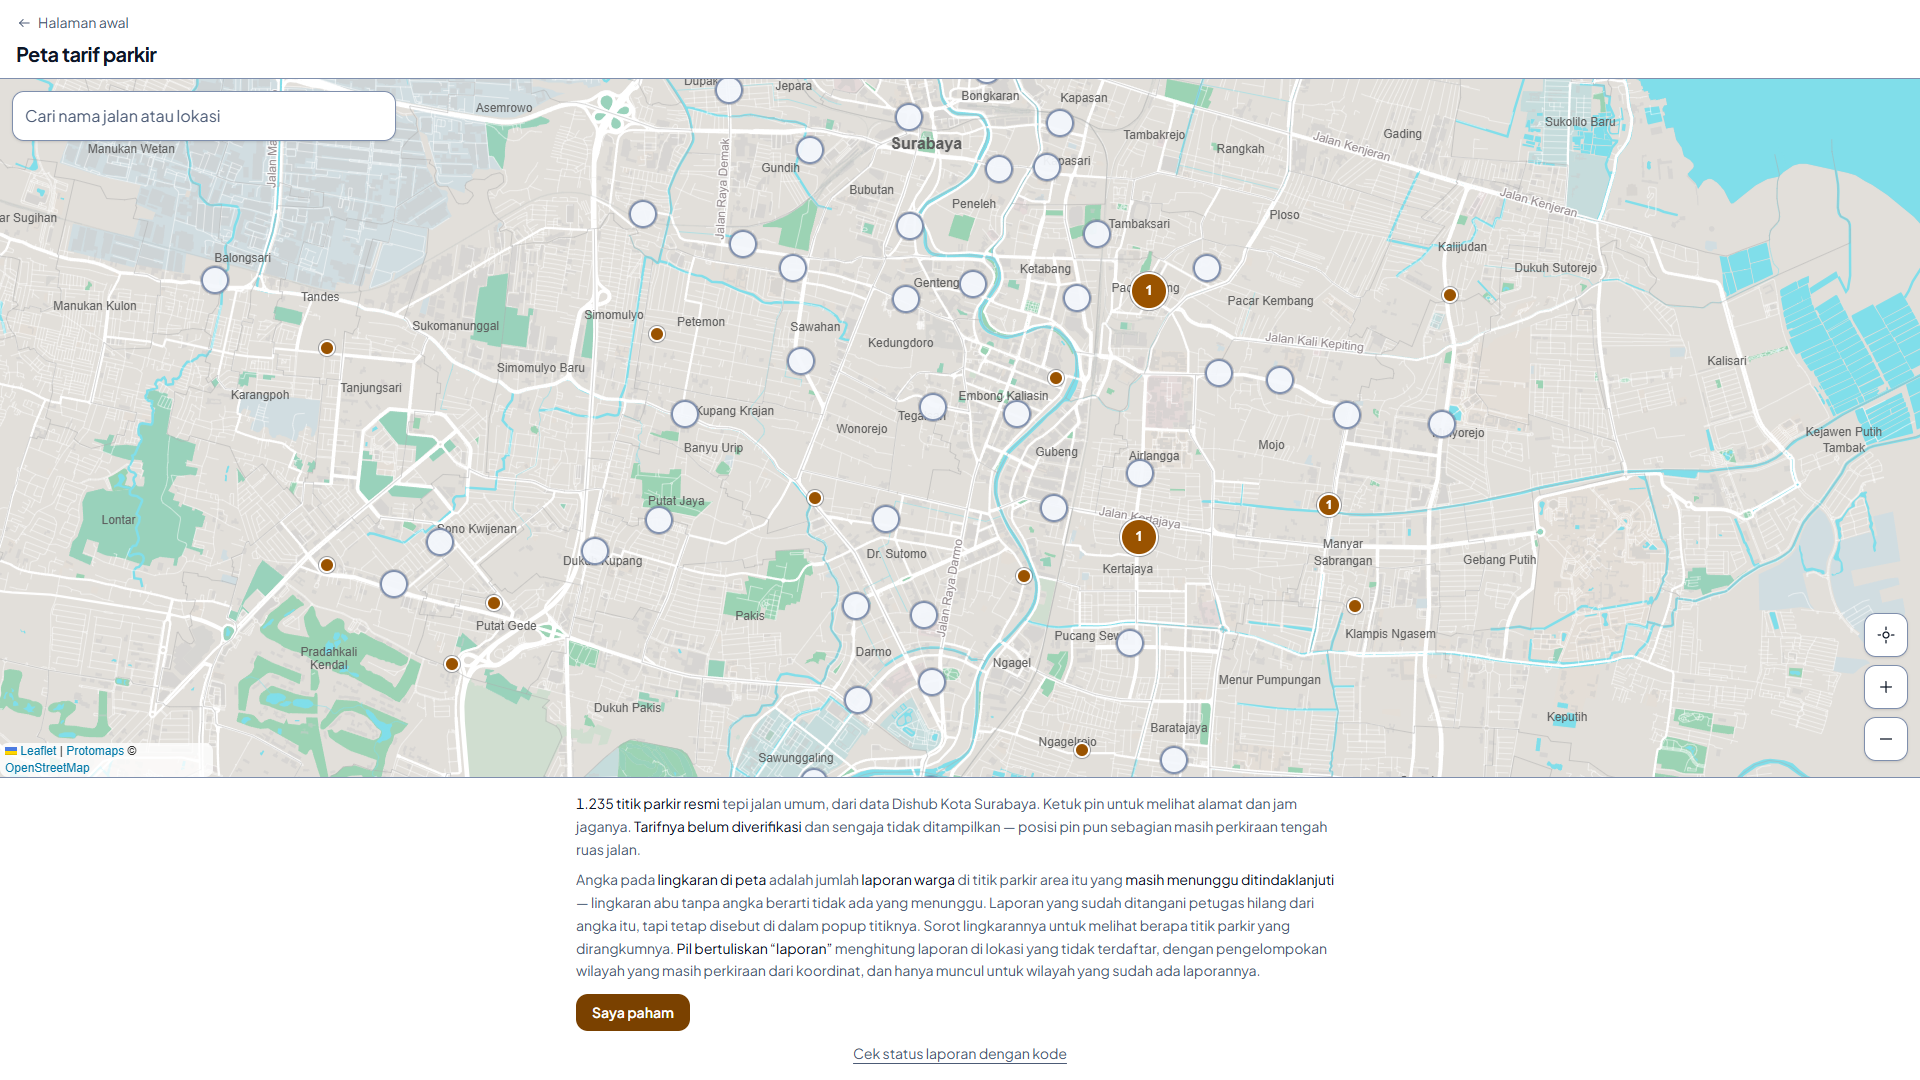
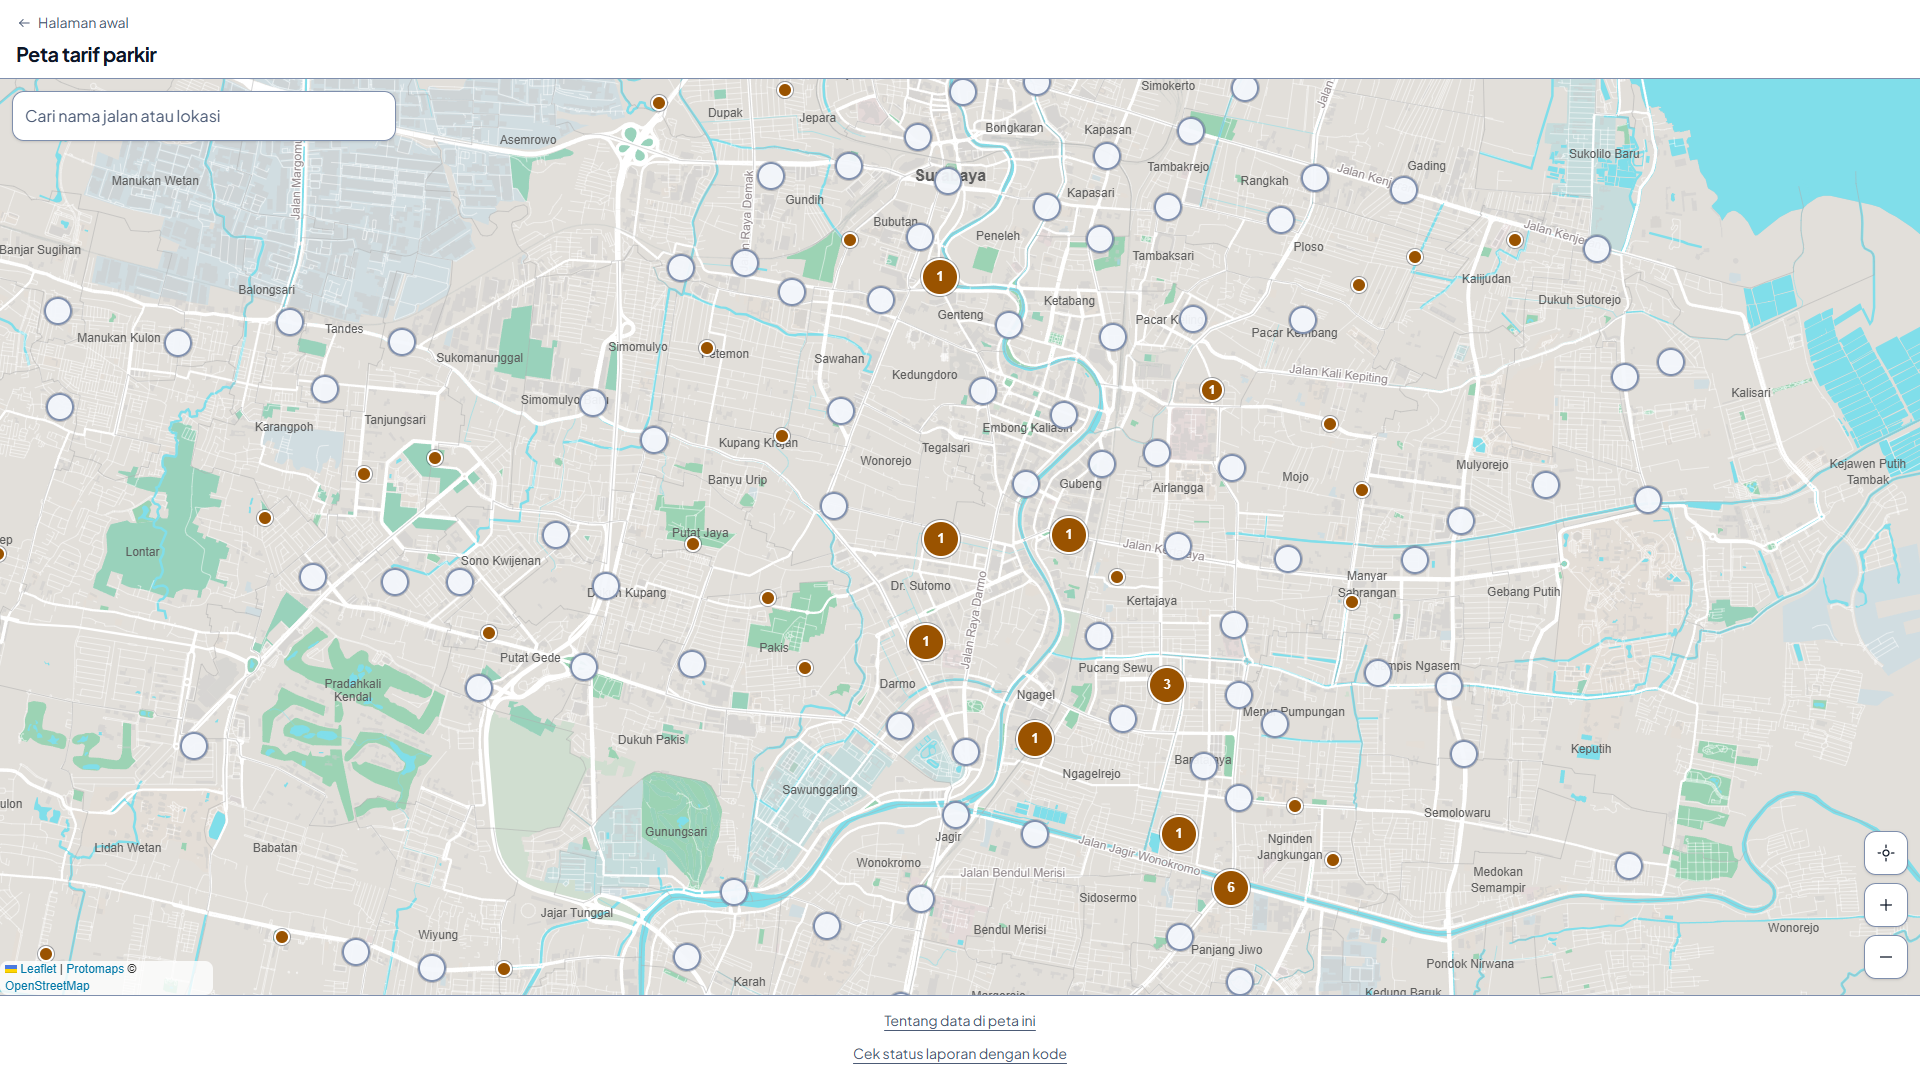
Dokumentasi Readme

diff --git a/README.md b/README.md
@@ -183,21 +183,15 @@ Yang **tidak** termasuk dalam proyek ini: pembayaran parkir, integrasi ke sistem
 
 <div align="center">
 
-
-<img src="screenshot/06-hp-halaman-awal.jpg" alt="Halaman awal di ponsel" width="240"/>| 
-<img src="screenshot/07-hp-peta.jpg" alt="Peta warga di ponsel" width="240"/> |
-<img src="screenshot/08-hp-pencarian.jpg" alt="Saran pencarian di ponsel" width="240"/> |
-|:--:|:--:|:--:|
+| <img src="screenshot/06-hp-halaman-awal.jpg" alt="Halaman awal di ponsel" width="240"/> | <img src="screenshot/07-hp-peta.jpg" alt="Peta warga di ponsel" width="240"/> | <img src="screenshot/08-hp-pencarian.jpg" alt="Saran pencarian di ponsel" width="240"/> |
+| :---: | :---: | :---: |
 | *Halaman awal* | *Peta + kotak pencarian* | *Saran pencarian per kata* |
 
-<img src="screenshot/09-hp-popup-titik.jpg" alt="Popup titik di ponsel" width="240"/>|
-<img src="screenshot/10-hp-form-laporan.jpg"  alt="Form laporan di ponsel" width="240"/> |
-<img src="screenshot/10-hp-form-laporan (1).jpg" alt="Form laporan di ponsel" width="240"/> |
-<img src="screenshot/11-hp-dasbor.jpg" alt="Dasbor petugas di ponsel" width="240"/> |
-<img src="screenshot/11-hp-dasbor (1).jpg" alt="Dasbor petugas di ponsel" width="240"/> |
-<img src="screenshot/11-hp-dasbor (2).jpg" alt="Dasbor petugas di ponsel" width="240"/> |
+<br>
 
-|:--:|:--:|:--:|
+| <img src="screenshot/09-hp-popup-titik.jpg" alt="Popup titik di ponsel" width="240"/> | <img src="screenshot/10-hp-form-laporan.jpg" alt="Form laporan di ponsel" width="240"/> | <img src="screenshot/10-hp-form-laporan (1).jpg" alt="Form laporan di ponsel" width="240"/> |
+| :---: | :---: | :---: |
+| <img src="screenshot/11-hp-dasbor.jpg" alt="Dasbor petugas di ponsel" width="240"/> | <img src="screenshot/11-hp-dasbor (1).jpg" alt="Dasbor petugas di ponsel" width="240"/> | <img src="screenshot/11-hp-dasbor (2).jpg" alt="Dasbor petugas di ponsel" width="240"/> |
 | *Popup titik — isinya dapat digulir* | *Form laporan — tanpa akun* | *Dasbor petugas* |
 
 </div>
